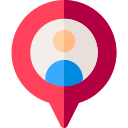
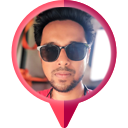
custom marker

diff --git a/lib/pages/GoogleMapExample.dart b/lib/pages/GoogleMapExample.dart
@@ -1,5 +1,4 @@
 import 'dart:async';
-
 import 'package:flutter/material.dart';
 import 'package:flutter_polyline_points/flutter_polyline_points.dart';
 import 'package:google_maps_flutter/google_maps_flutter.dart';
@@ -19,6 +18,8 @@ class _GoogleMapExampleState extends State<GoogleMapExample> {
   Map<String, Marker> _markers = {};
   LocationData? currentLocation;
 
+  BitmapDescriptor customeMarkerIcon = BitmapDescriptor.defaultMarker;
+
   // static const LatLng currentLocation1 =
   //     LatLng(23.776847382866453, 90.39481629986943);
   static const LatLng source = LatLng(23.773717420031076, 90.39006859089616);
@@ -26,8 +27,8 @@ class _GoogleMapExampleState extends State<GoogleMapExample> {
   LatLng(23.777247555332163, 90.39828337681699);
   List<LatLng> polylineCoordinates = [];
 
-  var markerIcon = BitmapDescriptor.fromAssetImage(
-      ImageConfiguration(), 'images/marker.png');
+  // var markerIcon = BitmapDescriptor.fromAssetImage(
+  //     ImageConfiguration(), 'images/marker.png');
 
   getCurrentLocation() async {
     Location location = Location();
@@ -82,10 +83,15 @@ class _GoogleMapExampleState extends State<GoogleMapExample> {
     polylineCoordinates.add(LatLng(23.777247555332163, 90.39828337681699));
   }
 
+  getCustomMarkerIcon(){
+    BitmapDescriptor.fromAssetImage(ImageConfiguration(), 'images/marker.png').then((icon) => customeMarkerIcon = icon);
+  }
+
   @override
   void initState() {
     getPolyPoints();
     getCurrentLocation();
+    getCustomMarkerIcon();
     super.initState();
   }
 
@@ -122,17 +128,20 @@ class _GoogleMapExampleState extends State<GoogleMapExample> {
             Marker(
                 markerId: MarkerId('Source'),
                 position: source,
+                icon: customeMarkerIcon,
                 infoWindow: InfoWindow(
                     title: 'Marker Source',
                     snippet: 'Source description')),
             Marker(
                 markerId: MarkerId('Destination'),
                 position: destination,
+                icon: customeMarkerIcon,
                 infoWindow: InfoWindow(
                     title: 'Destination',
                     snippet: 'Destination description')),
             Marker(
                 markerId: MarkerId('DeviceLocation'),
+                icon: customeMarkerIcon,
                 position: LatLng(currentLocation!.latitude!,
                     currentLocation!.longitude!),
                 infoWindow: InfoWindow(
